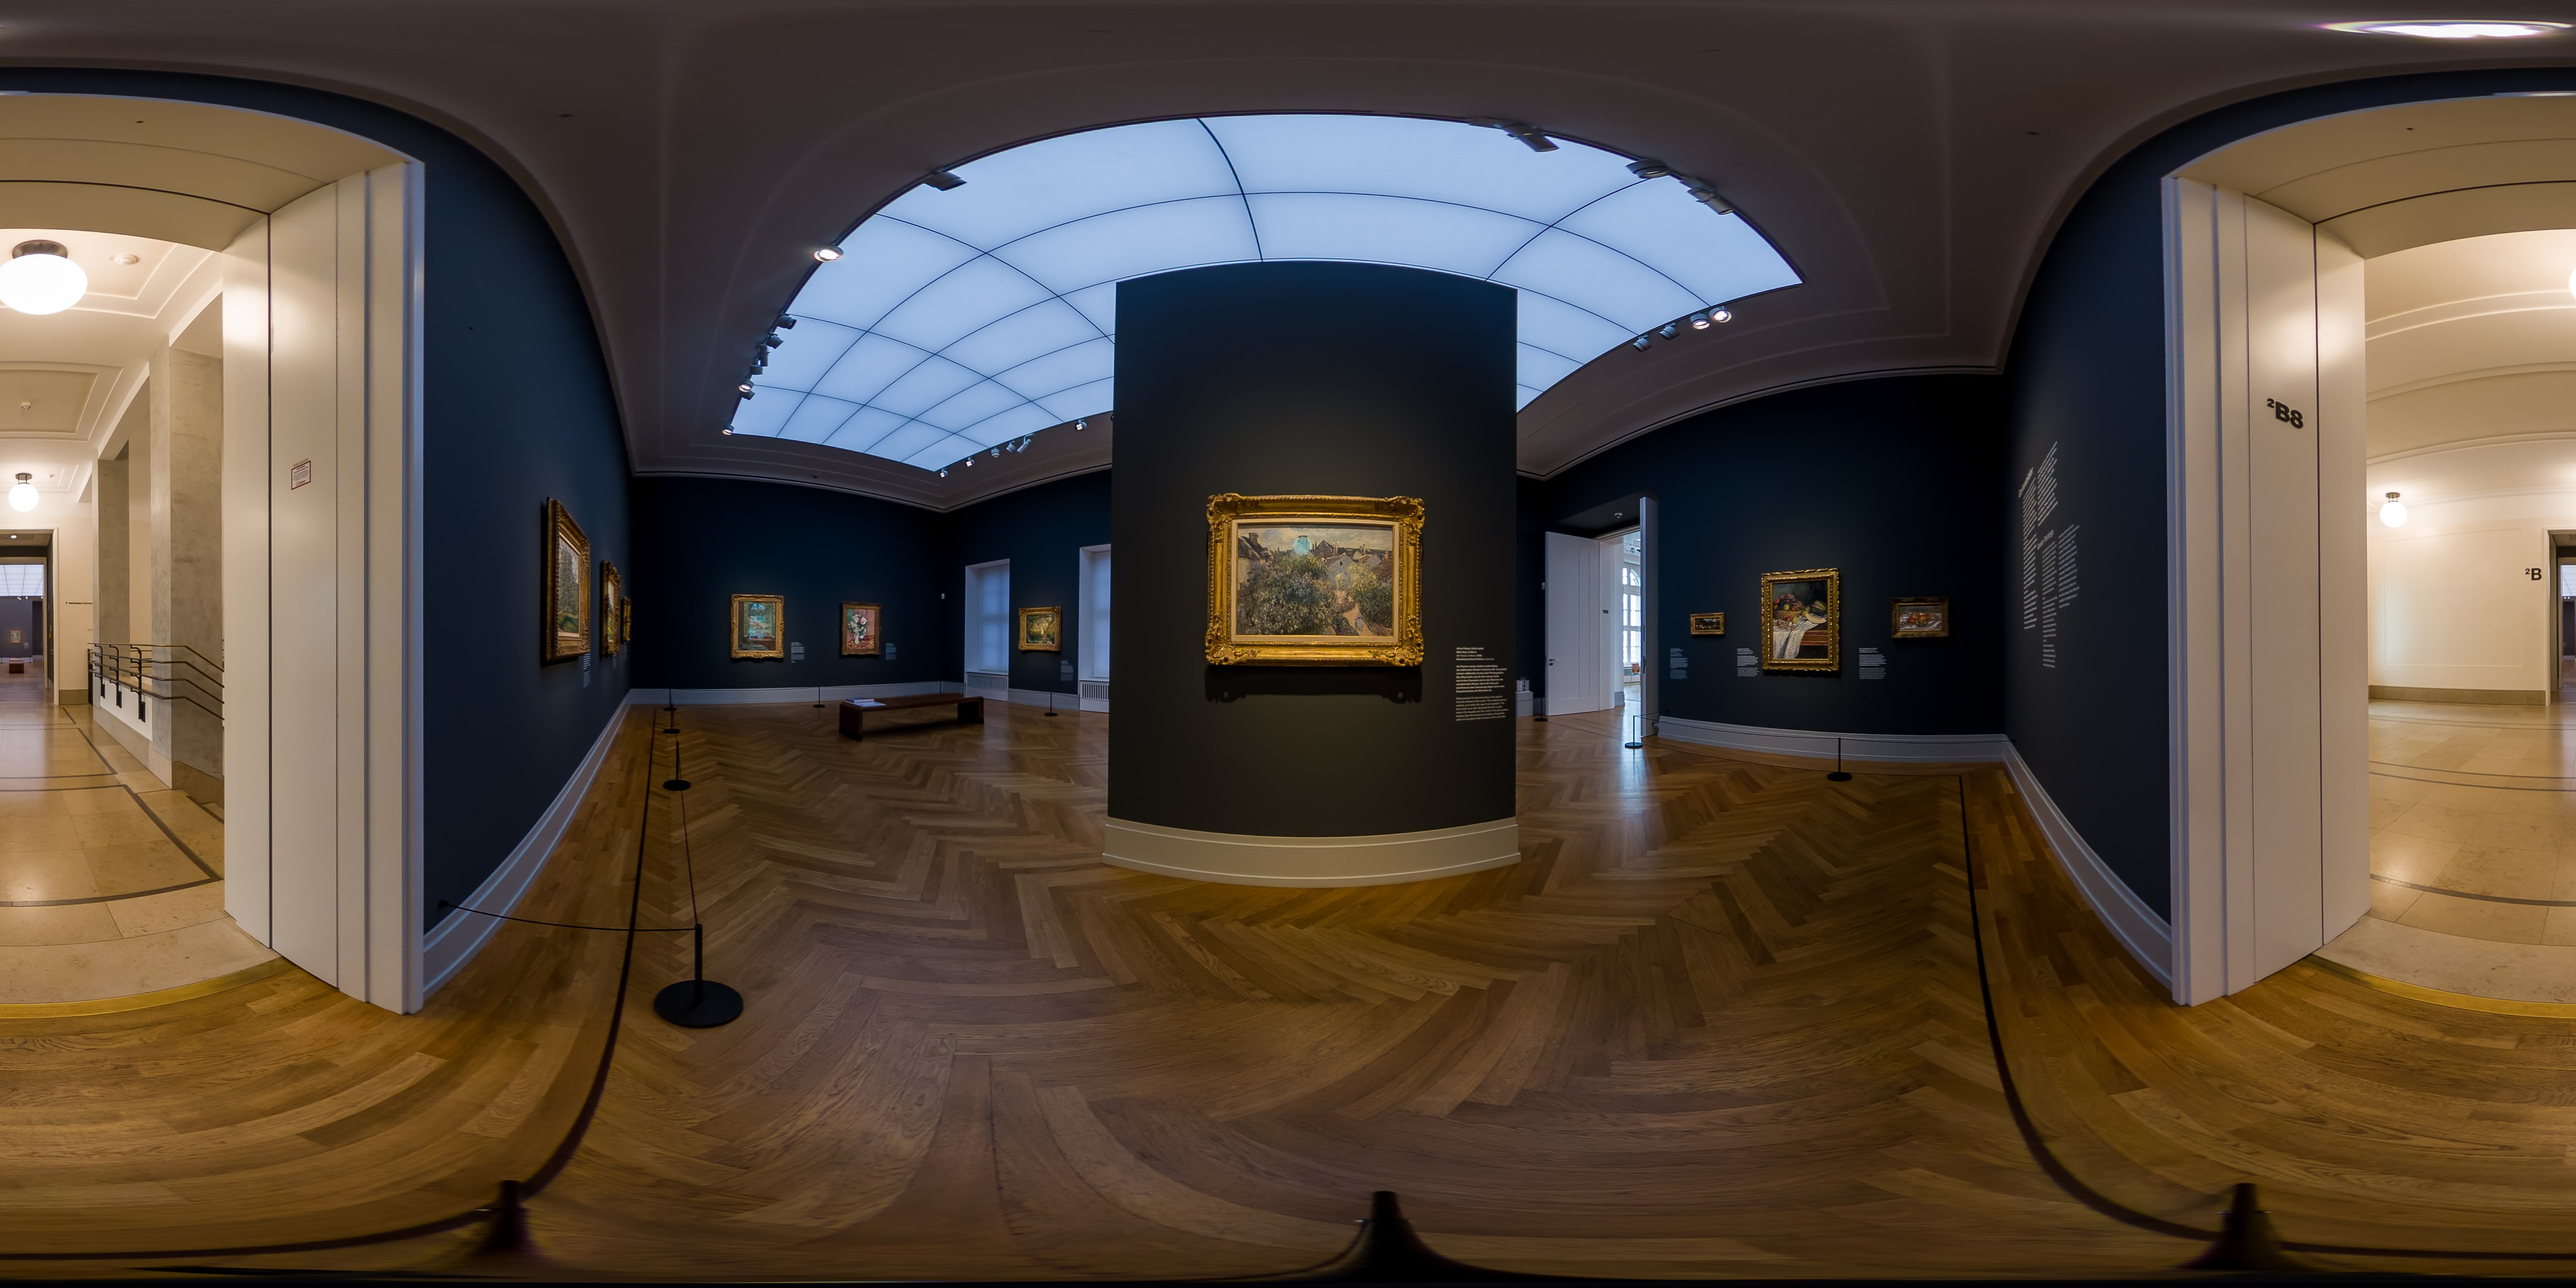
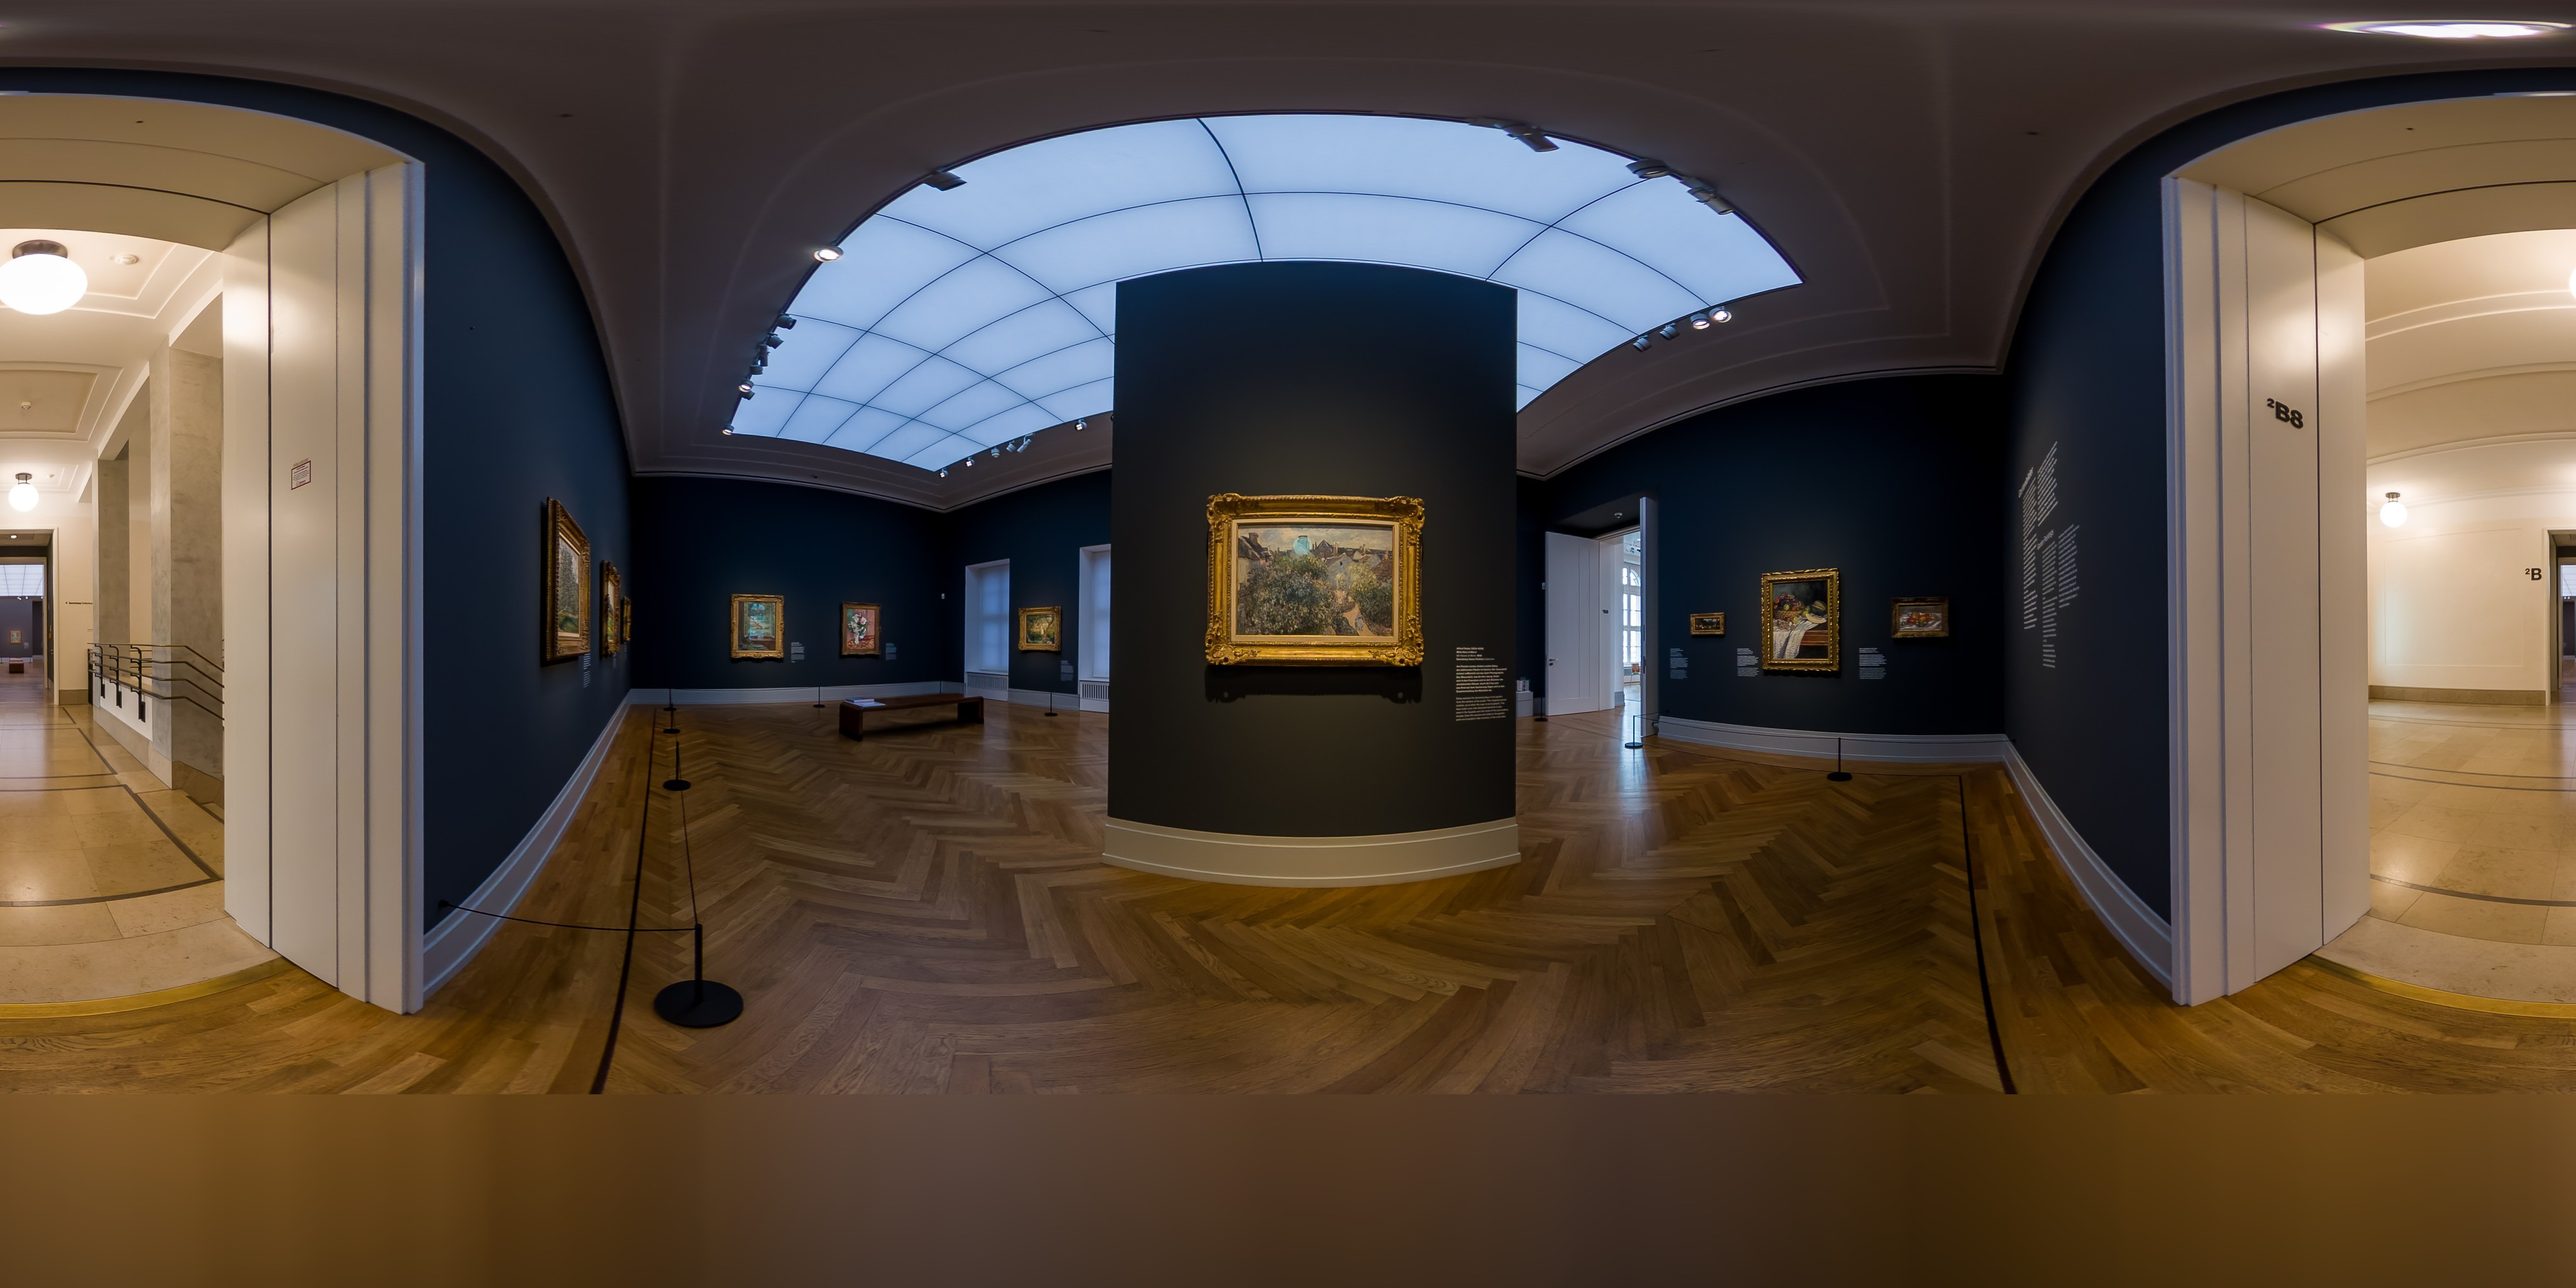
Barberini: Nadir retuschiert (Stativ weg) + Portale hoeher in die Tueroeffnung (Pitch -10)

diff --git a/platform/dev/seed_barberini.py b/platform/dev/seed_barberini.py
@@ -89,7 +89,7 @@ DOORS = {
     9: {"next": 144, "prev": -154},
     10: {"prev": -112},
 }
-PORTAL_PITCH = -38   # Boden-Pfeil (Blick nach unten), Street-View-Look
+PORTAL_PITCH = -10   # in der Tueroeffnung (nicht am Boden)
 
 
 def portals(i, n):
